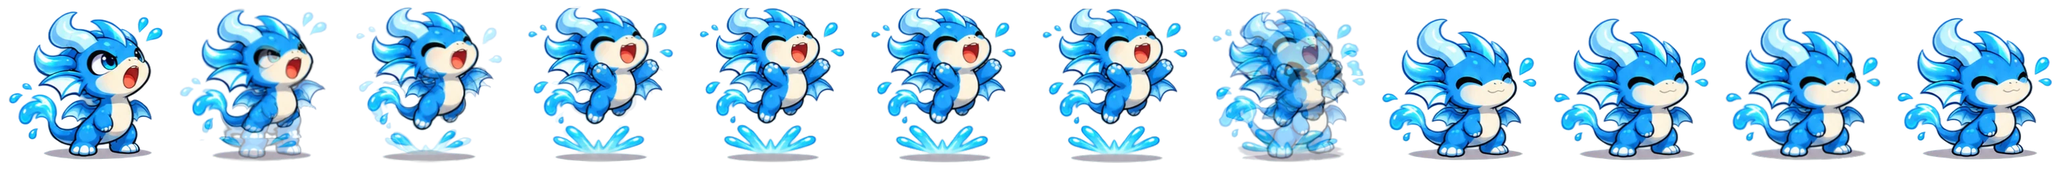
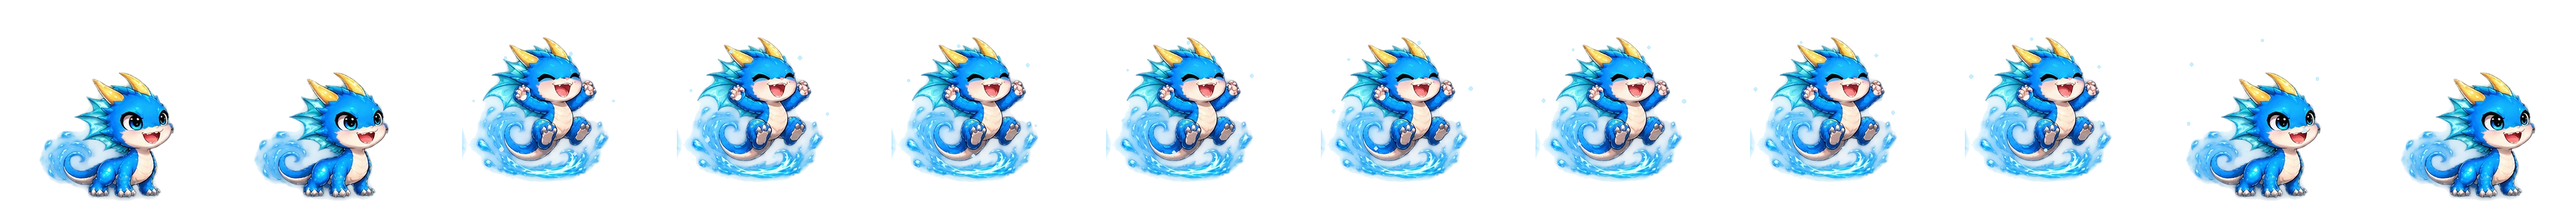
Hanja PWA v2.1.9 final animations

diff --git a/dragons.js b/dragons.js
@@ -186,6 +186,34 @@ function stopAttackMotion(){
   if(attackTimer){clearTimeout(attackTimer);attackTimer=null;}
   if(attackMotion){try{attackMotion.cancel();}catch{}attackMotion=null;}
 }
+
+function skillMotionProfile(element,tier){
+  const T=Math.max(0,Math.min(4,tier));
+  const profiles={
+    fire:[
+      {delay:430,duration:1180,arc:-8,maxScale:.90,rotate:0, dragon:[{transform:'translateX(0) translateY(0) scale(1)',offset:0},{transform:'translateX(6px) translateY(-2px) scale(1.03)',offset:.35},{transform:'translateX(0) translateY(0) scale(1)',offset:1}]},
+      {delay:420,duration:1050,arc:-2,maxScale:1.02,rotate:-18,dragon:[{transform:'translateX(0) rotate(0deg) scale(1)',offset:0},{transform:'translateX(-6px) rotate(-7deg) scale(1.02)',offset:.28},{transform:'translateX(10px) rotate(11deg) scale(1.06)',offset:.63},{transform:'translateX(0) rotate(0deg) scale(1)',offset:1}]},
+      {delay:470,duration:1320,arc:-20,maxScale:1.05,rotate:-22,dragon:[{transform:'translateX(0) rotate(0deg) scale(1)',offset:0},{transform:'translateX(-8px) translateY(-2px) rotate(-10deg) scale(1.04)',offset:.25},{transform:'translateX(6px) translateY(-7px) rotate(14deg) scale(1.08)',offset:.58},{transform:'translateX(0) rotate(0deg) scale(1)',offset:1}]},
+      {delay:500,duration:1500,arc:-15,maxScale:1.18,rotate:0,dragon:[{transform:'translateX(0) scale(1)',offset:0},{transform:'translateX(4px) translateY(-5px) scale(1.05)',offset:.22},{transform:'translateX(14px) translateY(-3px) scale(1.09)',offset:.50},{transform:'translateX(9px) scale(1.05)',offset:.82},{transform:'translateX(0) scale(1)',offset:1}]},
+      {delay:560,duration:1650,arc:-28,maxScale:1.26,rotate:-6,dragon:[{transform:'translateX(0) translateY(0) scale(1)',offset:0},{transform:'translateX(-10px) translateY(8px) scale(.96)',offset:.18},{transform:'translateX(18px) translateY(-10px) scale(1.13)',offset:.52},{transform:'translateX(8px) translateY(-5px) scale(1.08)',offset:.78},{transform:'translateX(0) translateY(0) scale(1)',offset:1}]}
+    ],
+    water:[
+      {delay:430,duration:1180,arc:-16,maxScale:.92,rotate:8,dragon:[{transform:'translateX(0) scale(1)',offset:0},{transform:'translateX(5px) translateY(-2px) scale(1.02)',offset:.3},{transform:'translateX(0) scale(1)',offset:1}]},
+      {delay:490,duration:1480,arc:-12,maxScale:1.14,rotate:10,dragon:[{transform:'translateX(0) scale(1)',offset:0},{transform:'translateX(3px) translateY(-8px) scale(1.04)',offset:.25},{transform:'translateX(13px) translateY(-5px) scale(1.08)',offset:.58},{transform:'translateX(0) scale(1)',offset:1}]},
+      {delay:470,duration:1350,arc:-28,maxScale:1.02,rotate:14,dragon:[{transform:'translateX(0) rotate(0deg) scale(1)',offset:0},{transform:'translateX(-6px) rotate(-5deg) scale(1.03)',offset:.25},{transform:'translateX(7px) rotate(8deg) scale(1.06)',offset:.55},{transform:'translateX(0) rotate(0deg) scale(1)',offset:1}]},
+      {delay:430,duration:1120,arc:-5,maxScale:1.00,rotate:28,dragon:[{transform:'translateX(0) rotate(0deg) scale(1)',offset:0},{transform:'translateX(-4px) rotate(-14deg) scale(1.02)',offset:.22},{transform:'translateX(10px) rotate(10deg) scale(1.05)',offset:.58},{transform:'translateX(0) rotate(0deg) scale(1)',offset:1}]},
+      {delay:570,duration:1650,arc:-35,maxScale:1.24,rotate:4,dragon:[{transform:'translateX(0) translateY(0) scale(1)',offset:0},{transform:'translateX(-8px) translateY(8px) scale(.97)',offset:.16},{transform:'translateX(16px) translateY(-10px) scale(1.12)',offset:.50},{transform:'translateX(10px) translateY(-6px) scale(1.09)',offset:.77},{transform:'translateX(0) translateY(0) scale(1)',offset:1}]}
+    ],
+    forest:[
+      {delay:440,duration:1180,arc:12,maxScale:.91,rotate:-10,dragon:[{transform:'translateX(0) scale(1)',offset:0},{transform:'translateX(5px) translateY(-2px) scale(1.02)',offset:.35},{transform:'translateX(0) scale(1)',offset:1}]},
+      {delay:460,duration:1220,arc:8,maxScale:1.00,rotate:-22,dragon:[{transform:'translateX(0) rotate(0deg) scale(1)',offset:0},{transform:'translateX(-4px) rotate(-10deg) scale(1.02)',offset:.24},{transform:'translateX(11px) rotate(8deg) scale(1.06)',offset:.58},{transform:'translateX(0) rotate(0deg) scale(1)',offset:1}]},
+      {delay:450,duration:1120,arc:2,maxScale:.97,rotate:-28,dragon:[{transform:'translateX(0) translateY(0) scale(1)',offset:0},{transform:'translateX(-5px) translateY(-4px) rotate(-6deg) scale(1.03)',offset:.25},{transform:'translateX(8px) translateY(2px) rotate(9deg) scale(1.05)',offset:.55},{transform:'translateX(0) translateY(0) scale(1)',offset:1}]},
+      {delay:500,duration:1450,arc:18,maxScale:1.10,rotate:-5,dragon:[{transform:'translateX(0) translateY(0) scale(1)',offset:0},{transform:'translateX(-6px) translateY(6px) scale(.98)',offset:.2},{transform:'translateX(12px) translateY(-5px) scale(1.08)',offset:.56},{transform:'translateX(0) translateY(0) scale(1)',offset:1}]},
+      {delay:580,duration:1680,arc:26,maxScale:1.22,rotate:0,dragon:[{transform:'translateX(0) translateY(0) scale(1)',offset:0},{transform:'translateX(-9px) translateY(8px) scale(.97)',offset:.16},{transform:'translateX(15px) translateY(-11px) scale(1.12)',offset:.52},{transform:'translateX(9px) translateY(-6px) scale(1.08)',offset:.79},{transform:'translateX(0) translateY(0) scale(1)',offset:1}]}
+    ]
+  };
+  return (profiles[element]||profiles.fire)[T];
+}
 function playAttackMotion(dialog,correct,element,tier){
   const serial=attackSerial;
   const projectile=dialog.querySelector('.projectile');
@@ -195,24 +223,14 @@ function playAttackMotion(dialog,correct,element,tier){
   const stage=dialog.querySelector('.attack-stage');
   const impact=dialog.querySelector('.attack-impact');
   const damage=dialog.querySelector('.attack-damage');
+  const profile=skillMotionProfile(element,tier);
   let impacted=false;
-  const finish=()=>{
-    if(serial!==attackSerial||!dialog.open)return;
-    result?.classList.add('visible');
-    dialog.querySelector('#attack-close')?.focus({preventScroll:true});
-  };
+  const finish=()=>{ if(serial!==attackSerial||!dialog.open)return; result?.classList.add('visible'); dialog.querySelector('#attack-close')?.focus({preventScroll:true}); };
   const hit=()=>{
     if(impacted||serial!==attackSerial||!dialog.open)return;
-    impacted=true;
-    impact?.classList.add('burst');
-    damage?.classList.add('visible');
-    if(enemy?.animate)enemy.animate([
-      {transform:'translateX(0) scale(1)',filter:'brightness(1)'},
-      {transform:'translateX(-9px) scale(.95)',filter:'brightness(1.8)'},
-      {transform:'translateX(7px) scale(1.04)',filter:'brightness(1.3)'},
-      {transform:'translateX(0) scale(1)',filter:'brightness(1)'}
-    ],{duration:430,easing:'ease-out'});
-    attackTimer=setTimeout(finish,650);
+    impacted=true; impact?.classList.add('burst'); damage?.classList.add('visible');
+    if(enemy?.animate)enemy.animate([{transform:'translateX(0) scale(1)',filter:'brightness(1)'},{transform:'translateX(-9px) scale(.95)',filter:'brightness(1.8)'},{transform:'translateX(7px) scale(1.04)',filter:'brightness(1.3)'},{transform:'translateX(0) scale(1)',filter:'brightness(1)'}],{duration:430,easing:'ease-out'});
+    attackTimer=setTimeout(finish,700);
   };
   if(!correct){attackTimer=setTimeout(finish,320);return;}
   const start=async()=>{
@@ -220,53 +238,32 @@ function playAttackMotion(dialog,correct,element,tier){
     if(serial!==attackSerial||!dialog.open||!projectile||!stage)return;
     await new Promise(r=>requestAnimationFrame(()=>requestAnimationFrame(r)));
     if(serial!==attackSerial||!dialog.open)return;
-    // Compute the flight path from the actual dragon sprite to the actual opponent
-    // so the impact lands correctly on narrow Android screens and larger tablets.
     const stageRect=stage.getBoundingClientRect();
     const dragonImage=dragon?.querySelector('.sprite-holder')||dragon?.querySelector('img');
     const enemyImage=enemy?.querySelector('img');
-    const origin=dragonImage?.getBoundingClientRect();
-    const target=enemyImage?.getBoundingClientRect();
-    const spriteWidth=projectile.getBoundingClientRect().width||90;
-    const spriteHeight=projectile.getBoundingClientRect().height||80;
+    const origin=dragonImage?.getBoundingClientRect(); const target=enemyImage?.getBoundingClientRect();
+    const spriteWidth=projectile.getBoundingClientRect().width||90; const spriteHeight=projectile.getBoundingClientRect().height||80;
     let startX=origin?origin.right-origin.width*.30-stageRect.left-spriteWidth*.5:stageRect.width*.18;
     let startY=origin?origin.top+origin.height*.40-stageRect.top-spriteHeight*.5:stageRect.height*.37;
     let endX=target?target.left+target.width*.40-stageRect.left-spriteWidth*.5:stageRect.width*.74;
     let endY=target?target.top+target.height*.45-stageRect.top-spriteHeight*.5:stageRect.height*.43;
-    startX=Math.max(-15,Math.min(stageRect.width-spriteWidth,startX));
-    startY=Math.max(24,Math.min(stageRect.height-spriteHeight,startY));
-    projectile.style.left=startX+'px';projectile.style.top=startY+'px';
-    const dx=endX-startX,dy=endY-startY;
-    if(impact){impact.style.left=(endX+spriteWidth*.5)+'px';impact.style.top=(endY+spriteHeight*.5)+'px';}
-    if(damage){damage.style.left=(endX+spriteWidth*.5)+'px';damage.style.top=(endY+spriteHeight*.5-28)+'px';}
-    const arc=element==='water'?-22:element==='forest'?18:-(5+tier*3);
-    const maxScale=.85+tier*.12;
-    if(dragon?.animate)dragon.animate([
-      {transform:'translateX(0) scale(1)'},{transform:'translateX(9px) scale(1.05)'},{transform:'translateX(0) scale(1)'}
-    ],{duration:390,easing:'ease-out'});
+    startX=Math.max(-15,Math.min(stageRect.width-spriteWidth,startX)); startY=Math.max(24,Math.min(stageRect.height-spriteHeight,startY));
+    projectile.style.left=startX+'px'; projectile.style.top=startY+'px'; const dx=endX-startX,dy=endY-startY;
+    if(impact){impact.style.left=(endX+spriteWidth*.5)+'px'; impact.style.top=(endY+spriteHeight*.5)+'px';}
+    if(damage){damage.style.left=(endX+spriteWidth*.5)+'px'; damage.style.top=(endY+spriteHeight*.5-28)+'px';}
+    if(dragon?.animate)dragon.animate(profile.dragon,{duration:Math.max(390,profile.duration-180),easing:'ease-out'});
     if(typeof projectile.animate==='function'){
       try{
         projectile.style.opacity='1';
-        attackMotion=projectile.animate([
-          {transform:'translate3d(0,0,0) scale(.55)',opacity:0,offset:0},
-          {transform:`translate3d(${dx*.1}px,${arc*.6}px,0) scale(${maxScale*.85})`,opacity:1,offset:.12},
-          {transform:`translate3d(${dx*.55}px,${dy*.55+arc}px,0) rotate(${element==='forest'?-20:element==='water'?10:0}deg) scale(${maxScale})`,opacity:1,offset:.55},
-          {transform:`translate3d(${dx*.91}px,${dy*.91+arc*.15}px,0) scale(${maxScale*1.3})`,opacity:1,offset:.91},
-          {transform:`translate3d(${dx}px,${dy}px,0) scale(${maxScale*1.45})`,opacity:0,offset:1}
-        ],{duration:1500,easing:'ease-in-out',fill:'forwards'});
+        attackMotion=projectile.animate([{transform:'translate3d(0,0,0) scale(.55)',opacity:0,offset:0},{transform:`translate3d(${dx*.10}px,${profile.arc*.55}px,0) scale(${profile.maxScale*.82})`,opacity:1,offset:.12},{transform:`translate3d(${dx*.56}px,${dy*.56+profile.arc}px,0) rotate(${profile.rotate}deg) scale(${profile.maxScale})`,opacity:1,offset:.56},{transform:`translate3d(${dx*.92}px,${dy*.92+profile.arc*.14}px,0) rotate(${profile.rotate*.35}deg) scale(${profile.maxScale*1.24})`,opacity:1,offset:.92},{transform:`translate3d(${dx}px,${dy}px,0) scale(${profile.maxScale*1.38})`,opacity:0,offset:1}],{duration:profile.duration,easing:'ease-in-out',fill:'forwards'});
         attackMotion.onfinish=hit;
       }catch(error){console.warn('attack animation fallback',error);}
       if(attackMotion)return;
     }
-    // Fallback: CSS custom properties keep both the destination and duration accurate.
-    projectile.style.setProperty('--flight-x',dx+'px');
-    projectile.style.setProperty('--flight-y',dy+'px');
-    projectile.classList.add('css-flight');
-    attackTimer=setTimeout(hit,1500);
+    projectile.style.setProperty('--flight-x',dx+'px'); projectile.style.setProperty('--flight-y',dy+'px'); projectile.classList.add('css-flight'); attackTimer=setTimeout(hit,profile.duration);
   };
-  setTimeout(()=>{if(serial===attackSerial)start().catch(()=>{if(serial===attackSerial)hit();});},510);
-  // Android WebView may skip animation finish after an interruption.
-  setTimeout(()=>{if(serial===attackSerial&&dialog.open&&!impacted)hit();},3600);
+  setTimeout(()=>{if(serial===attackSerial)start().catch(()=>{if(serial===attackSerial)hit();});},profile.delay);
+  setTimeout(()=>{if(serial===attackSerial&&dialog.open&&!impacted)hit();},profile.delay+profile.duration+1800);
 }
 function openAttackDialog({correct,used,skill,enemy,remainingHP,answer,points=25,special='',combo=0}){
   stopAttackMotion();
@@ -281,7 +278,7 @@ function openAttackDialog({correct,used,skill,enemy,remainingHP,answer,points=25
       <div class="attack-title">${htmlEscape(d.name)} · ${htmlEscape(move)}!</div>
       <div class="figures"><div class="unit attack-dragon"><img src="${dragonArt(used,stage)}" ${spriteAttrs(used,stage,'attack')} alt="${d.name}"><span>${d.name}</span></div>
         <div class="unit enemy-hit"><img src="${monsterArt(enemy)}" alt="${m.name}"><span class="enemy-name">${htmlEscape(m.name)}</span><span class="enemy-hp">HP ${remainingHP}/100</span></div></div>
-      ${correct?`<img class="projectile" src="${used==='forest'?'./assets/animations/effects/forest_vortex.webp':effectArt(used,skill)}" alt="기술 ${htmlEscape(move)}가 몬스터에게 날아갑니다">
+      ${correct?`<img class="projectile" src="${effectArt(used,skill)}" alt="기술 ${htmlEscape(move)}가 몬스터에게 날아갑니다">
         <div class="attack-impact" aria-hidden="true"><div class="impact-ring"></div><div class="impact-ring second"></div>${particles}</div>
         <div class="attack-damage" aria-hidden="true">-25</div>`:''}
     </div>

diff --git a/sw.js b/sw.js
@@ -1,9 +1,9 @@
 // Each release has its own offline cache. Keep URLs relative for GitHub Pages project paths.
-const CACHE_VERSION='hanja-pwa-v2.1.5-expanded-frames';
+const CACHE_VERSION='hanja-pwa-v2.1.9-final';
 const PREFIX='hanja-pwa-';
-const CORE=["./","./index.html","./style.css?v=2.1.3","./adventure.js?v=2.1.0","./app.js?v=2.1.0","./writing.js?v=2.1.0","./dragons.js?v=2.1.3.1","./manifest.webmanifest","./data/hanja.json","./icons/icon-192.png","./icons/icon-512.png","./assets/forest.webp","./assets/fire.webp","./assets/water.webp","./assets/dragons/fire_1.webp","./assets/dragons/fire_2.webp","./assets/dragons/fire_3.webp","./assets/dragons/water_1.webp","./assets/dragons/water_2.webp","./assets/dragons/water_3.webp","./assets/dragons/forest_1.webp","./assets/dragons/forest_2.webp","./assets/dragons/forest_3.webp","./assets/monsters/slime.webp","./assets/monsters/sprout_imp.webp","./assets/monsters/mushroom.webp","./assets/monsters/stone_guardian.webp","./assets/monsters/crystal_bat.webp","./assets/monsters/storm_fox.webp","./assets/monsters/ancient_ent.webp","./assets/monsters/flame_wisp.webp","./assets/monsters/shadow_dragon.webp","./assets/effects/fire_1.webp","./assets/effects/fire_2.webp","./assets/effects/fire_3.webp","./assets/effects/fire_4.webp","./assets/effects/fire_5.webp","./assets/effects/water_1.webp","./assets/effects/water_2.webp","./assets/effects/water_3.webp","./assets/effects/water_4.webp","./assets/effects/water_5.webp","./assets/effects/forest_1.webp","./assets/effects/forest_2.webp","./assets/effects/forest_3.webp","./assets/effects/forest_4.webp","./assets/effects/forest_5.webp","./sprite-player.js?v=2.1.5","./assets/animations/dragons/fire_1_idle.webp","./assets/animations/dragons/fire_1_attack.webp","./assets/animations/dragons/fire_1_victory.webp","./assets/animations/dragons/water_1_idle.webp","./assets/animations/dragons/water_1_attack.webp","./assets/animations/dragons/water_1_victory.webp","./assets/animations/dragons/forest_1_idle.webp","./assets/animations/dragons/forest_1_attack.webp","./assets/animations/dragons/forest_1_victory.webp",
+const CORE=["./","./index.html","./style.css?v=2.1.3","./adventure.js?v=2.1.0","./app.js?v=2.1.0","./writing.js?v=2.1.0","./dragons.js?v=2.1.9","./manifest.webmanifest","./data/hanja.json","./icons/icon-192.png","./icons/icon-512.png","./assets/forest.webp","./assets/fire.webp","./assets/water.webp","./assets/dragons/fire_1.webp","./assets/dragons/fire_2.webp","./assets/dragons/fire_3.webp","./assets/dragons/water_1.webp","./assets/dragons/water_2.webp","./assets/dragons/water_3.webp","./assets/dragons/forest_1.webp","./assets/dragons/forest_2.webp","./assets/dragons/forest_3.webp","./assets/monsters/slime.webp","./assets/monsters/sprout_imp.webp","./assets/monsters/mushroom.webp","./assets/monsters/stone_guardian.webp","./assets/monsters/crystal_bat.webp","./assets/monsters/storm_fox.webp","./assets/monsters/ancient_ent.webp","./assets/monsters/flame_wisp.webp","./assets/monsters/shadow_dragon.webp","./assets/effects/fire_1.webp","./assets/effects/fire_2.webp","./assets/effects/fire_3.webp","./assets/effects/fire_4.webp","./assets/effects/fire_5.webp","./assets/effects/water_1.webp","./assets/effects/water_2.webp","./assets/effects/water_3.webp","./assets/effects/water_4.webp","./assets/effects/water_5.webp","./assets/effects/forest_1.webp","./assets/effects/forest_2.webp","./assets/effects/forest_3.webp","./assets/effects/forest_4.webp","./assets/effects/forest_5.webp","./sprite-player.js?v=2.1.9","./assets/animations/dragons/fire_1_idle.webp","./assets/animations/dragons/fire_1_attack.webp","./assets/animations/dragons/fire_1_victory.webp","./assets/animations/dragons/water_1_idle.webp","./assets/animations/dragons/water_1_attack.webp","./assets/animations/dragons/water_1_victory.webp","./assets/animations/dragons/forest_1_idle.webp","./assets/animations/dragons/forest_1_attack.webp","./assets/animations/dragons/forest_1_victory.webp",
   './assets/animations/effects/forest_vortex.webp'
-,"./skill-effects.js?v=2.1.5",'./assets/animations/dragons/fire_2_idle.webp','./assets/animations/dragons/fire_2_attack.webp','./assets/animations/dragons/fire_2_victory.webp','./assets/animations/dragons/fire_3_idle.webp','./assets/animations/dragons/fire_3_attack.webp','./assets/animations/dragons/fire_3_victory.webp','./assets/animations/dragons/water_2_idle.webp','./assets/animations/dragons/water_2_attack.webp','./assets/animations/dragons/water_2_victory.webp','./assets/animations/dragons/water_3_idle.webp','./assets/animations/dragons/water_3_attack.webp','./assets/animations/dragons/water_3_victory.webp','./assets/animations/dragons/forest_2_idle.webp','./assets/animations/dragons/forest_2_attack.webp','./assets/animations/dragons/forest_2_victory.webp','./assets/animations/dragons/forest_3_idle.webp','./assets/animations/dragons/forest_3_attack.webp','./assets/animations/dragons/forest_3_victory.webp'];
+,"./skill-effects.js?v=2.1.9",'./assets/animations/dragons/fire_2_idle.webp','./assets/animations/dragons/fire_2_attack.webp','./assets/animations/dragons/fire_2_victory.webp','./assets/animations/dragons/fire_3_idle.webp','./assets/animations/dragons/fire_3_attack.webp','./assets/animations/dragons/fire_3_victory.webp','./assets/animations/dragons/water_2_idle.webp','./assets/animations/dragons/water_2_attack.webp','./assets/animations/dragons/water_2_victory.webp','./assets/animations/dragons/water_3_idle.webp','./assets/animations/dragons/water_3_attack.webp','./assets/animations/dragons/water_3_victory.webp','./assets/animations/dragons/forest_2_idle.webp','./assets/animations/dragons/forest_2_attack.webp','./assets/animations/dragons/forest_2_victory.webp','./assets/animations/dragons/forest_3_idle.webp','./assets/animations/dragons/forest_3_attack.webp','./assets/animations/dragons/forest_3_victory.webp'];
 const STROKE_CORE=["./vendor/hanzi-writer.min.js","./strokes/一.json","./strokes/二.json","./strokes/三.json","./strokes/四.json","./strokes/五.json","./strokes/六.json","./strokes/七.json","./strokes/八.json","./strokes/九.json","./strokes/十.json","./strokes/山.json","./strokes/水.json","./strokes/火.json","./strokes/木.json","./strokes/金.json","./strokes/土.json","./strokes/日.json","./strokes/月.json","./strokes/年.json","./strokes/東.json","./strokes/西.json","./strokes/南.json","./strokes/北.json","./strokes/中.json","./strokes/白.json","./strokes/靑.json","./strokes/人.json","./strokes/大.json","./strokes/小.json","./strokes/女.json","./strokes/父.json","./strokes/母.json","./strokes/兄.json","./strokes/弟.json","./strokes/生.json","./strokes/校.json","./strokes/先.json","./strokes/學.json","./strokes/國.json","./strokes/軍.json","./strokes/民.json","./strokes/韓.json","./strokes/門.json","./strokes/室.json","./strokes/王.json","./strokes/外.json","./strokes/長.json","./strokes/寸.json","./strokes/萬.json","./strokes/家.json","./strokes/間.json","./strokes/江.json","./strokes/車.json","./strokes/工.json","./strokes/空.json","./strokes/氣.json","./strokes/記.json","./strokes/男.json","./strokes/內.json","./strokes/農.json","./strokes/答.json","./strokes/道.json","./strokes/動.json","./strokes/力.json","./strokes/立.json","./strokes/每.json","./strokes/名.json","./strokes/物.json","./strokes/方.json","./strokes/不.json","./strokes/事.json","./strokes/上.json","./strokes/姓.json","./strokes/世.json","./strokes/手.json","./strokes/時.json","./strokes/市.json","./strokes/食.json","./strokes/安.json","./strokes/午.json","./strokes/右.json","./strokes/子.json","./strokes/自.json","./strokes/場.json","./strokes/電.json","./strokes/前.json","./strokes/全.json","./strokes/正.json","./strokes/足.json","./strokes/左.json","./strokes/直.json","./strokes/平.json","./strokes/下.json","./strokes/漢.json","./strokes/海.json","./strokes/話.json","./strokes/活.json","./strokes/孝.json","./strokes/後.json","./strokes/歌.json","./strokes/口.json","./strokes/旗.json","./strokes/同.json","./strokes/洞.json","./strokes/冬.json","./strokes/登.json","./strokes/來.json","./strokes/老.json","./strokes/里.json","./strokes/林.json","./strokes/面.json","./strokes/命.json","./strokes/文.json","./strokes/問.json","./strokes/百.json","./strokes/夫.json","./strokes/算.json","./strokes/色.json","./strokes/夕.json","./strokes/少.json","./strokes/所.json","./strokes/數.json","./strokes/植.json","./strokes/心.json","./strokes/語.json","./strokes/然.json","./strokes/有.json","./strokes/育.json","./strokes/邑.json","./strokes/入.json","./strokes/字.json","./strokes/祖.json","./strokes/住.json","./strokes/主.json","./strokes/重.json","./strokes/紙.json","./strokes/地.json","./strokes/千.json","./strokes/天.json","./strokes/川.json","./strokes/草.json","./strokes/村.json","./strokes/秋.json","./strokes/春.json","./strokes/出.json","./strokes/便.json","./strokes/夏.json","./strokes/花.json","./strokes/休.json"]; // Written by scripts/bundle_strokes.sh when stroke-order assets are installed.
 self.addEventListener('install', event=>event.waitUntil(caches.open(CACHE_VERSION).then(cache=>cache.addAll(CORE.concat(STROKE_CORE))).then(()=>self.skipWaiting())));
 self.addEventListener('activate', event=>event.waitUntil(Promise.all([

diff --git a/sprite-player.js b/sprite-player.js
@@ -1,15 +1,15 @@
-/* 한자 탐험대 PWA v2.1.5 — 3단계 드래곤 애니메이션 재생기
- * 드래곤 3종 × 진화 3단계 × (대기 12 / 공격 14 / 승리 12) 프레임.
+/* 한자 탐험대 PWA v2.1.9 — 1·2·3단계 최종 포즈 재생기
+ * 드래곤 9종 × (대기 12 / 공격 14 / 승리 12) 프레임. 실제 키포즈 연결, 광학흐름 보간 없음.
  * 기존 학습·전투 판정·저장 로직을 수정하지 않습니다.
  */
 (() => {
   'use strict';
   const ELEMENTS = new Set(['fire', 'water', 'forest']);
-  const SIZE = 256;
+  const SIZE = 320;
   const MODES = Object.freeze({
-    idle:    { frames: 12, fps: 8.0, loop: true,  linger: 0 },
-    attack:  { frames: 14, fps: 10.0, loop: false, linger: 720 },
-    victory: { frames: 12, fps: 8.0, loop: false, linger: 680 }
+    idle:    { frames: 12, fps: 6.0, loop: true,  linger: 0 },
+    attack:  { frames: 14, fps: 9.3, loop: false, linger: 450 },
+    victory: { frames: 12, fps: 8.0, loop: false, linger: 750 }
   });
   const imagePromises = new Map();
   const actors = new Set();
@@ -34,29 +34,13 @@
     return imagePromises.get(url);
   }
 
-  function snapshot(canvas) {
-    const image = document.createElement('canvas');
-    image.width = SIZE;
-    image.height = SIZE;
-    image.getContext('2d').drawImage(canvas, 0, 0);
-    return image;
-  }
-  function draw(actor, frame, now) {
+  function draw(actor, frame) {
     if (!actor.sheet) return;
-    if (actor.lastFrame === frame && !actor.fade) return;
+    if (actor.lastFrame === frame) return;
     const ctx = actor.ctx;
     ctx.clearRect(0, 0, SIZE, SIZE);
     // Source frames are individually padded: draw 1:1 to avoid a second shrink.
     ctx.drawImage(actor.sheet, frame * SIZE, 0, SIZE, SIZE, 0, 0, SIZE, SIZE);
-    if (actor.fade) {
-      const alpha = Math.max(0, 1 - (now - actor.fade.at) / 380);
-      if (alpha > 0) {
-        ctx.save();
-        ctx.globalAlpha = alpha;
-        ctx.drawImage(actor.fade.previous, 0, 0);
-        ctx.restore();
-      } else actor.fade = null;
-    }
     actor.lastFrame = frame;
   }
   function schedule() {
@@ -64,13 +48,9 @@
   }
   function changeMode(actor, mode) {
     if (!MODES[mode]) return;
-    const previous = mode === 'idle' && actor.mode !== 'idle' && actor.canvas.style.display !== 'none'
-      ? snapshot(actor.canvas)
-      : null;
     actor.mode = mode;
     actor.ended = false;
     actor.endAt = 0;
-    actor.fade = null;
     actor.loading = true; // Hold the last visible frame while the next sheet is loading.
     const token = ++actor.token;
     loadImage(actor.key, actor.stage, mode).then(sheet => {
@@ -79,10 +59,9 @@
       actor.loading = false;
       actor.startAt = performance.now();
       actor.lastFrame = -1;
-      actor.fade = previous ? { previous, at: actor.startAt } : null;
       actor.fallback.style.opacity = '0';
       actor.canvas.style.display = 'block';
-      draw(actor, 0, actor.startAt);
+      draw(actor, 0);
       schedule();
     }).catch(err => {
       if (actor.token !== token) return;
@@ -106,7 +85,7 @@
       const elapsed = Math.max(0, now - actor.startAt);
       const raw = Math.floor((elapsed / 1000) * cfg.fps);
       const frame = cfg.loop ? raw % cfg.frames : Math.min(cfg.frames - 1, raw);
-      draw(actor, frame, now);
+      draw(actor, frame);
       if (!cfg.loop && !actor.ended && elapsed >= cfg.frames * 1000 / cfg.fps) {
         actor.ended = true;
         actor.endAt = now + cfg.linger;
@@ -122,12 +101,11 @@
       img.dataset.spriteMounted = '1';
       const key = img.dataset.spriteDragon;
       const stage = Number(img.dataset.spriteStage);
-      // Evolution stages 2 and 3 have dedicated 12/14/12-frame sprites; fallback keeps original portrait.
+      // Each stage has its own sprite; fallback stays as original portrait.
       if (!ELEMENTS.has(key) || !Number.isInteger(stage) || stage < 1 || stage > 3 || !img.parentNode) continue;
       const holder = document.createElement('span');
       holder.className = 'sprite-holder';
       holder.dataset.spriteType = key;
-      holder.dataset.spriteStage = String(stage);
       img.parentNode.insertBefore(holder, img);
       holder.appendChild(img);
       const canvas = document.createElement('canvas');
@@ -141,7 +119,7 @@
       if (!ctx) continue;
       const actor = { key, stage, holder, canvas, ctx, fallback: img, token: 0,
         sheet: null, lastFrame: -1, startAt: 0, mode: 'idle',
-        ended: false, endAt: 0, fade: null, loading: false };
+        ended: false, endAt: 0, loading: false };
       actors.add(actor);
       byHolder.set(holder, actor);
       changeMode(actor, MODES[img.dataset.spriteState] ? img.dataset.spriteState : 'idle');
@@ -165,7 +143,7 @@
       if (!document.hidden) schedule();
     });
   }
-  window.HanjaSprites = { mount, play, version: '2.1.5', modes: MODES };
+  window.HanjaSprites = { mount, play, version: '2.1.9', modes: MODES };
   if (document.readyState === 'loading') {
     document.addEventListener('DOMContentLoaded', setup, { once: true });
   } else setup();

diff --git a/index.html b/index.html
@@ -11,18 +11,18 @@
   <link rel="icon" href="./icons/icon-192.png">
   <link rel="apple-touch-icon" href="./icons/icon-192.png">
   <link rel="stylesheet" href="./style.css?v=2.1.3">
-  <title>한자 탐험대 · PWA v2.1.4</title>
+  <title>한자 탐험대 · PWA v2.1.9</title>
   <script defer src="./writing.js?v=2.1.0"></script>
-  <script defer src="./sprite-player.js?v=2.1.5"></script>
-  <script defer src="./dragons.js?v=2.1.3.1"></script>
-  <script defer src="./skill-effects.js?v=2.1.5"></script>
+  <script defer src="./sprite-player.js?v=2.1.9"></script>
+  <script defer src="./dragons.js?v=2.1.9"></script>
+  <script defer src="./skill-effects.js?v=2.1.9"></script>
   <script defer src="./adventure.js?v=2.1.0"></script>
   <script defer src="./app.js?v=2.1.0"></script>
 </head>
 <body>
   <main class="shell">
     <header class="hero">
-      <div class="hero-title"><span class="eyebrow">드래곤 가디언즈 · PWA v2.1.4</span><h1>한자 탐험대</h1><p>배우고, 맞히고, 기억하는 한자 모험!</p></div>
+      <div class="hero-title"><span class="eyebrow">드래곤 가디언즈 · PWA v2.1.9</span><h1>한자 탐험대</h1><p>배우고, 맞히고, 기억하는 한자 모험!</p></div>
       <img src="./assets/forest.webp" alt="숲의 아기 드래곤 그루" width="140" height="140">
     </header>
     <div class="status-strip" aria-live="polite"><span id="save-status" role="status">기록 확인 중…</span><span id="offline-status">기록은 휴대전화에 자동 저장돼요</span></div>
@@ -46,7 +46,7 @@
       <input id="import-file" type="file" accept="application/json,.json" hidden>
       <p class="note">v2.0.0 PWA 백업과 기존 Streamlit JSON 기록 가져오기를 지원합니다. 복원 전에 현재 기록을 백업해 두세요.</p>
     </section>
-    <footer>한자 탐험대 v2.1.4 · 개인 학습용<br>홈·배우기·퀴즈·복습·쓰기·모험 지도·드래곤·카드·기록 · 자동 저장 · 오프라인</footer>
+    <footer>한자 탐험대 v2.1.9 · 개인 학습용<br>홈·배우기·퀴즈·복습·쓰기·모험 지도·드래곤·카드·기록 · 자동 저장 · 오프라인</footer>
   </main>
 </body>
 </html>

diff --git a/skill-effects.js b/skill-effects.js
@@ -89,7 +89,7 @@ function draw(ctx,meta,kind,idx,t,seconds){
  ctx.restore();
 }
 function attach(stage,dialog){
- if(stage.dataset.hanjaSkillFx==='1')return;
+ if(stage.dataset.hanjaSkillFx==='1'||!stage.querySelector('.projectile'))return;
  const kind=stage.dataset.element,idx=Number(stage.dataset.tier);
  if(!KINDS[kind]||!Number.isInteger(idx)||idx<0||idx>4)return;
  stage.dataset.hanjaSkillFx='1';
@@ -101,13 +101,13 @@ function attach(stage,dialog){
  function frame(now){
    if(!dialog.open||!stage.isConnected)return;
    if(!begin)begin=now;
-   const elapsed=now-begin;const t=elapsed/2800;
+   const elapsed=now-begin;const t=elapsed/1600;
    const dpr=Math.min(2,window.devicePixelRatio||1);
    const w=Math.max(1,Math.round(stage.clientWidth*dpr)),h=Math.max(1,Math.round(stage.clientHeight*dpr));
    if(canvas.width!==w||canvas.height!==h){canvas.width=w;canvas.height=h;}
    ctx.setTransform(dpr,0,0,dpr,0,0);ctx.clearRect(0,0,w/dpr,h/dpr);
    if(t<=1)draw(ctx,locate(stage),kind,idx,t,elapsed/1000);
-   if(elapsed<2900)requestAnimationFrame(frame);else canvas.remove();
+   if(elapsed<1800)requestAnimationFrame(frame);else canvas.remove();
  }
  requestAnimationFrame(frame);
 }
@@ -118,5 +118,5 @@ function setup(){
  check();
 }
 if(document.readyState==='loading')document.addEventListener('DOMContentLoaded',setup,{once:true});else setup();
-window.HanjaSkillFX={version:'2.1.4',names:KINDS};
+window.HanjaSkillFX={version:'2.1.9',names:KINDS};
 })();
